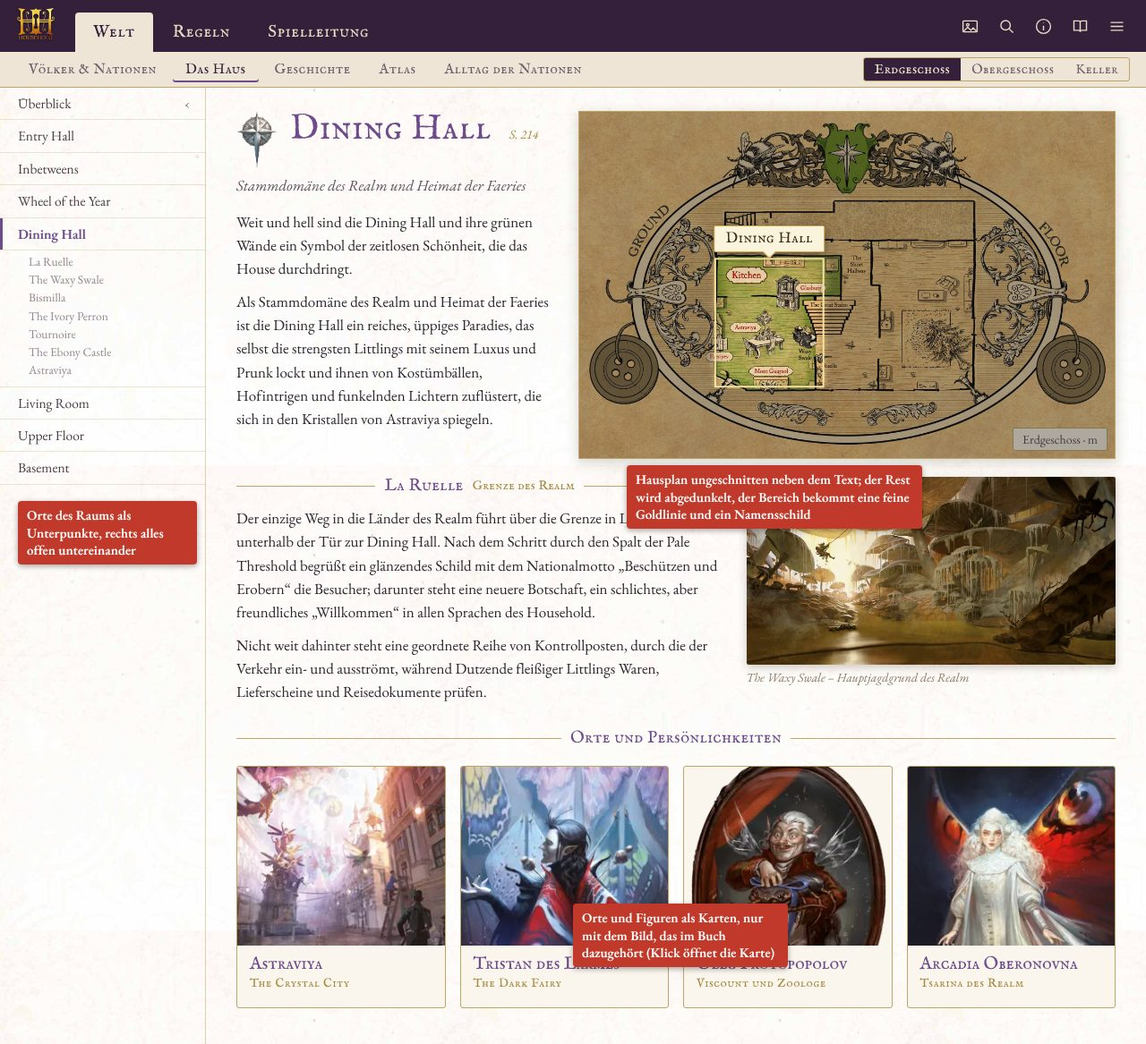
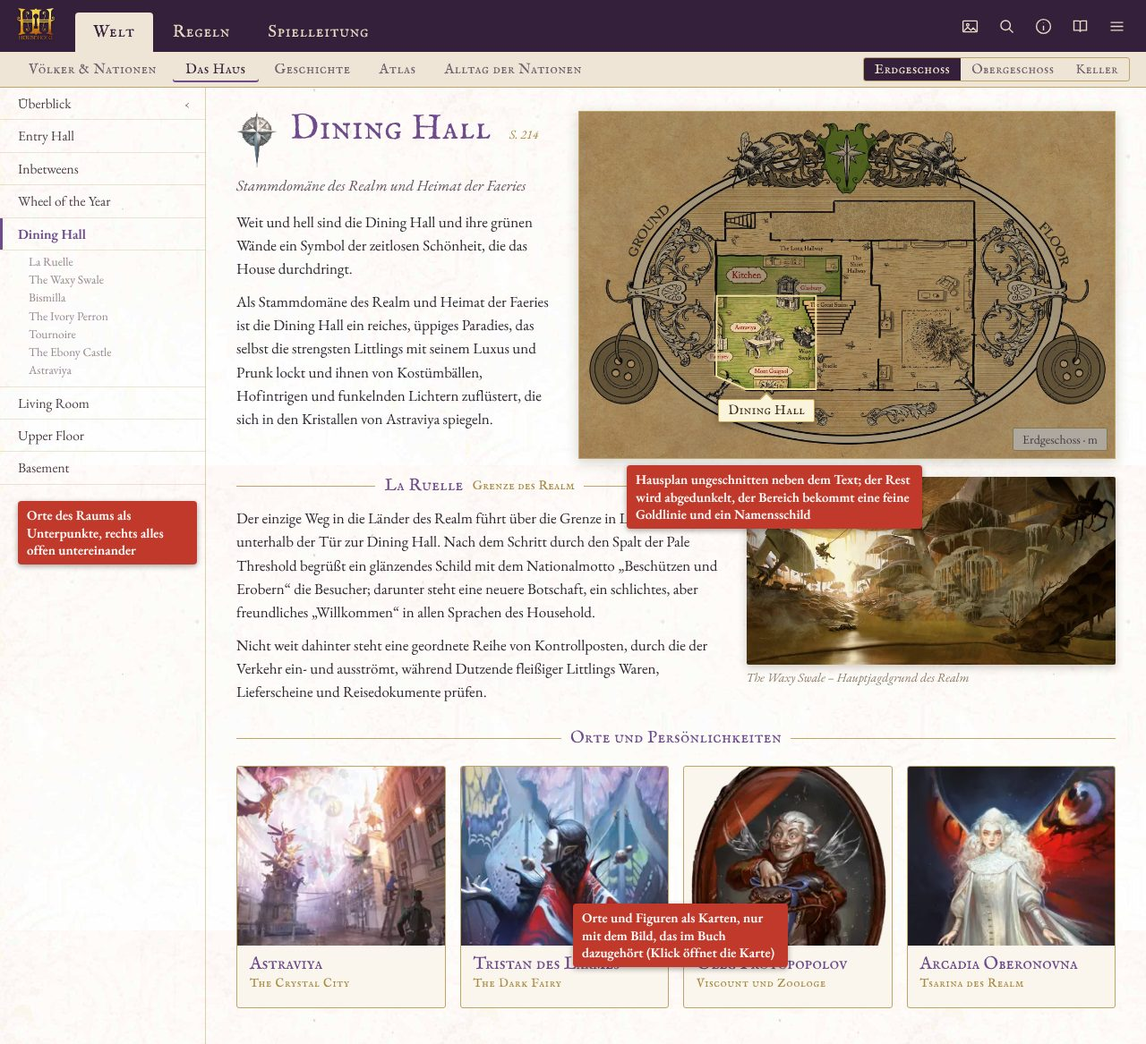
Household: Saga-Startseiten (Fragile Peace, Long Winter), Dining-Hall-Markierung ohne Kitchen

Changed region(s): [[0.625, 0.2159, 0.7188, 0.4319]]

diff --git a/plan/household/mockups/src/sagadaten.js b/plan/household/mockups/src/sagadaten.js
@@ -1,0 +1,3 @@
+var FPD=[["Kapitel I", "Sept. – Dez. VI H.C.", [["Argos Tagebuch", ["fp-s024-figur-gwen-summers", "fp-s030-figur-humphrey-lockwood", "fp-s046-figur-earnest-gilmore", "fp-s044-figur-sienna-blackwell-b"], "hearth"], ["Die Epidemie", ["fp-s026-figur-malaika-kumari", "fp-s060-figur-zehra-oren", "fp-s036-figur-qamar-halabi-b", "fp-s048-figur-santiago-vilar"], "horde"], ["Der Fall der vermissten Hummel", ["fp-s052-figur-yuliya-dragomirov", "fp-s014-015-figur-dimitri-sokov-ganz", "fp-s056-figur-hannah-blaum", "fp-s040-figur-jocelyne-bonheur"], "realm"], ["Die gestohlene Lieferung", ["fp-s022-figur-aidan-mackenna", "fp-s050-figur-siobhan-adhair-b", "fp-s016-figur-ira-poole", "fp-s042-figur-micah-doyle-c"], "dominions"], ["Die Wachsfalle", ["fp-s028-figur-pierre-delacroyance", "fp-s038-figur-gunther-lichtmann", "fp-s058-figur-priscilla-urbina", "fp-s032-figur-icarus-koenig"], "realm"], ["Die Blaue Ratte", ["fp-s018-figur-jemma-reed-b", "fp-s054-figur-floyd-hansen", "fp-s034-figur-litha-flammel", "fp-s020-figur-tubo-b"], "hearth"]]], ["Kapitel II · Paragraph I", "Jan. – März VII H.C.", [["Tragödie am Treppengeländer", ["fp-s022-figur-aidan-mackenna", "fp-s014-015-figur-dimitri-sokov-ganz", "fp-s016-figur-ira-poole", "fp-s050-figur-siobhan-adhair-b"], "common"], ["Auf Argos Spur", ["fp-s024-figur-gwen-summers", "fp-s030-figur-humphrey-lockwood", "fp-s058-figur-priscilla-urbina", "fp-s048-figur-santiago-vilar"], "hearth"], ["Auf frischer Tat", ["fp-s032-figur-icarus-koenig", "fp-s044-figur-sienna-blackwell-b", "fp-s042-figur-micah-doyle-c", "fp-s054-figur-floyd-hansen"], "hearth"], ["Der große Aufstieg", ["fp-s038-figur-gunther-lichtmann", "fp-s034-figur-litha-flammel", "fp-s028-figur-pierre-delacroyance", "fp-s020-figur-tubo-b"], "common"], ["Die Umbral-Grenze", ["fp-s018-figur-jemma-reed-b", "fp-s026-figur-malaika-kumari", "fp-s036-figur-qamar-halabi-b", "fp-s060-figur-zehra-oren"], "horde"], ["Unterwegs mit Protopopolov I", ["fp-s046-figur-earnest-gilmore", "fp-s056-figur-hannah-blaum", "fp-s040-figur-jocelyne-bonheur", "fp-s052-figur-yuliya-dragomirov"], "realm"]]], ["Kapitel II · Paragraph II", "Apr. VII – März VIII H.C.", [["The Long Hallway", ["fp-s032-figur-icarus-koenig", "fp-s018-figur-jemma-reed-b", "fp-s026-figur-malaika-kumari", "fp-s060-figur-zehra-oren"], "common"], ["Unterwegs mit Protopopolov II", ["fp-s052-figur-yuliya-dragomirov", "fp-s056-figur-hannah-blaum", "fp-s034-figur-litha-flammel", "fp-s020-figur-tubo-b"], "common"], ["Argos Grab", ["fp-s024-figur-gwen-summers", "fp-s030-figur-humphrey-lockwood", "fp-s058-figur-priscilla-urbina", "fp-s048-figur-santiago-vilar"], "hearth"], ["Eine bittere Pille", ["fp-s022-figur-aidan-mackenna", "fp-s014-015-figur-dimitri-sokov-ganz", "fp-s040-figur-jocelyne-bonheur", "fp-s050-figur-siobhan-adhair-b"], "realm"], ["Die Königin und der Boggart", ["fp-s028-figur-pierre-delacroyance", "fp-s038-figur-gunther-lichtmann", "fp-s016-figur-ira-poole", "fp-s054-figur-floyd-hansen"], "dominions"], ["Qamars Rache I", ["fp-s036-figur-qamar-halabi-b", "fp-s046-figur-earnest-gilmore", "fp-s044-figur-sienna-blackwell-b", "fp-s042-figur-micah-doyle-c"], "hearth"]]], ["Kapitel III · Paragraph I", "Apr. – Juli VIII H.C.", [["Ausbruch aus Deepdown", ["fp-s052-figur-yuliya-dragomirov", "fp-s018-figur-jemma-reed-b", "fp-s020-figur-tubo-b", "fp-s032-figur-icarus-koenig"], "horde"], ["Bei Kerzenlicht", ["fp-s024-figur-gwen-summers", "fp-s026-figur-malaika-kumari", "fp-s016-figur-ira-poole", "fp-s058-figur-priscilla-urbina"], "dominions"], ["Unterwegs mit Protopopolov III", ["fp-s028-figur-pierre-delacroyance", "fp-s038-figur-gunther-lichtmann", "fp-s056-figur-hannah-blaum", "fp-s034-figur-litha-flammel"], "horde"], ["Mord in Bookshire", ["fp-s022-figur-aidan-mackenna", "fp-s050-figur-siobhan-adhair-b", "fp-s042-figur-micah-doyle-c", "fp-s044-figur-sienna-blackwell-b"], "hearth"], ["Der Zoologische Garten", ["fp-s014-015-figur-dimitri-sokov-ganz", "fp-s046-figur-earnest-gilmore", "fp-s040-figur-jocelyne-bonheur", "fp-s060-figur-zehra-oren"], "realm"], ["Jagd im Greenwood", ["fp-s054-figur-floyd-hansen", "fp-s030-figur-humphrey-lockwood", "fp-s036-figur-qamar-halabi-b", "fp-s048-figur-santiago-vilar"], "hearth"]]], ["Kapitel III · Paragraph II", "Aug. VIII – Jan. IX H.C.", [["Duncan Rox’ Bande", ["fp-s054-figur-floyd-hansen", "fp-s030-figur-humphrey-lockwood", "fp-s048-figur-santiago-vilar", "fp-s044-figur-sienna-blackwell-b"], "hearth"], ["Argos Code", ["fp-s022-figur-aidan-mackenna", "fp-s024-figur-gwen-summers", "fp-s052-figur-yuliya-dragomirov", "fp-s050-figur-siobhan-adhair-b"], "dominions"], ["Gesucht!", ["fp-s060-figur-zehra-oren", "fp-s018-figur-jemma-reed-b", "fp-s034-figur-litha-flammel", "fp-s020-figur-tubo-b"], "horde"], ["Unterwegs mit Protopopolov: Epilog", ["fp-s038-figur-gunther-lichtmann", "fp-s028-figur-pierre-delacroyance", "fp-s046-figur-earnest-gilmore", "fp-s056-figur-hannah-blaum"], "horde"], ["Ira Poole muss sterben", ["fp-s016-figur-ira-poole", "fp-s042-figur-micah-doyle-c", "fp-s026-figur-malaika-kumari", "fp-s058-figur-priscilla-urbina"], "dominions"], ["Qamars Rache II", ["fp-s036-figur-qamar-halabi-b", "fp-s014-015-figur-dimitri-sokov-ganz", "fp-s032-figur-icarus-koenig", "fp-s040-figur-jocelyne-bonheur"], "realm"]]], ["Kapitel IIII · Paragraph I", "Feb. – Juni IX H.C.", [["Die Hundertjahrfeier", ["fp-s054-figur-floyd-hansen", "fp-s030-figur-humphrey-lockwood", "fp-s034-figur-litha-flammel", "fp-s046-figur-earnest-gilmore"], "hearth"], ["Santiago Vilars letztes Duell", ["fp-s038-figur-gunther-lichtmann", "fp-s056-figur-hannah-blaum", "fp-s058-figur-priscilla-urbina", "fp-s048-figur-santiago-vilar"], "horde"], ["Diplomatischer Zwischenfall", ["fp-s026-figur-malaika-kumari", "fp-s040-figur-jocelyne-bonheur", "fp-s032-figur-icarus-koenig", "fp-s016-figur-ira-poole"], "dominions"], ["Jemmas Urteil", ["fp-s052-figur-yuliya-dragomirov", "fp-s018-figur-jemma-reed-b", "fp-s014-015-figur-dimitri-sokov-ganz", "fp-s036-figur-qamar-halabi-b"], "realm"], ["Der Spinnenkult I", ["fp-s022-figur-aidan-mackenna", "fp-s028-figur-pierre-delacroyance", "fp-s020-figur-tubo-b", "fp-s060-figur-zehra-oren"], "horde"], ["Der Coup des Jahrhunderts I", ["fp-s024-figur-gwen-summers", "fp-s042-figur-micah-doyle-c", "fp-s044-figur-sienna-blackwell-b", "fp-s050-figur-siobhan-adhair-b"], "dominions"]]], ["Kapitel IIII · Paragraph II", "Juli – Sept. IX H.C.", [["Der Spinnenkult II", ["fp-s052-figur-yuliya-dragomirov", "fp-s014-015-figur-dimitri-sokov-ganz", "fp-s060-figur-zehra-oren", "fp-s020-figur-tubo-b"], "horde"], ["Kleine Protopopolovs", ["fp-s028-figur-pierre-delacroyance", "fp-s038-figur-gunther-lichtmann", "fp-s040-figur-jocelyne-bonheur", "fp-s056-figur-hannah-blaum"], "realm"], ["Der Coup des Jahrhunderts II", ["fp-s044-figur-sienna-blackwell-b", "fp-s042-figur-micah-doyle-c", "fp-s046-figur-earnest-gilmore", "fp-s058-figur-priscilla-urbina"], "dominions"], ["Der Weg des Rosts", ["fp-s024-figur-gwen-summers", "fp-s032-figur-icarus-koenig", "fp-s018-figur-jemma-reed-b", "fp-s034-figur-litha-flammel"], "horde"], ["Der Medjay-Orden", ["fp-s054-figur-floyd-hansen", "fp-s030-figur-humphrey-lockwood", "fp-s036-figur-qamar-halabi-b", "fp-s048-figur-santiago-vilar"], "horde"], ["Das Monster von Tuberdam I", ["fp-s022-figur-aidan-mackenna", "fp-s050-figur-siobhan-adhair-b", "fp-s026-figur-malaika-kumari", "fp-s016-figur-ira-poole"], "dominions"]]], ["Kapitel IIII · Paragraph III", "Okt. – Nov. IX H.C.", [["Der Sonnenuntergangsteufel", ["fp-s030-figur-humphrey-lockwood", "fp-s024-figur-gwen-summers", "fp-s054-figur-floyd-hansen", "fp-s048-figur-santiago-vilar"], "horde"], ["Das Monster von Tuberdam II", ["fp-s022-figur-aidan-mackenna", "fp-s050-figur-siobhan-adhair-b", "fp-s026-figur-malaika-kumari", "fp-s016-figur-ira-poole"], "dominions"], ["Das Grab der Schlange", ["fp-s036-figur-qamar-halabi-b", "fp-s052-figur-yuliya-dragomirov", "fp-s032-figur-icarus-koenig", "fp-s034-figur-litha-flammel"], "horde"], ["Ganz unten", ["fp-s028-figur-pierre-delacroyance", "fp-s040-figur-jocelyne-bonheur", "fp-s056-figur-hannah-blaum", "fp-s058-figur-priscilla-urbina"], "realm"], ["Das Richtige tun", ["fp-s046-figur-earnest-gilmore", "fp-s044-figur-sienna-blackwell-b", "fp-s018-figur-jemma-reed-b", "fp-s042-figur-micah-doyle-c"], "hearth"], ["Die Schuhe des Kalifen", ["fp-s060-figur-zehra-oren", "fp-s020-figur-tubo-b", "fp-s038-figur-gunther-lichtmann", "fp-s014-015-figur-dimitri-sokov-ganz"], "horde"]]], ["Kapitel V · Paragraph I", "Dez. IX – Feb. X H.C.", [["Der große Yule-Ball", ["fp-s048-figur-santiago-vilar", "fp-s038-figur-gunther-lichtmann", "fp-s028-figur-pierre-delacroyance", "fp-s026-figur-malaika-kumari"], "realm"], ["Jagd auf die Tristarred", ["fp-s046-figur-earnest-gilmore", "fp-s032-figur-icarus-koenig", "fp-s056-figur-hannah-blaum", "fp-s052-figur-yuliya-dragomirov"], "realm"], ["Das Hundertjahr-Rodeo", ["fp-s054-figur-floyd-hansen", "fp-s018-figur-jemma-reed-b", "fp-s034-figur-litha-flammel", "fp-s044-figur-sienna-blackwell-b"], "hearth"], ["Die gestohlenen Seiten", ["fp-s024-figur-gwen-summers", "fp-s022-figur-aidan-mackenna", "fp-s030-figur-humphrey-lockwood", "fp-s050-figur-siobhan-adhair-b"], "hearth"], ["Zehras Hochzeit", ["fp-s060-figur-zehra-oren", "fp-s020-figur-tubo-b", "fp-s036-figur-qamar-halabi-b", "fp-s042-figur-micah-doyle-c"], "horde"], ["Verdeckt", ["fp-s014-015-figur-dimitri-sokov-ganz", "fp-s016-figur-ira-poole", "fp-s040-figur-jocelyne-bonheur", "fp-s058-figur-priscilla-urbina"], "realm"]]], ["Kapitel V · Paragraph II", "März – Sept. X H.C.", [["Beschützen und Erobern", ["fp-s052-figur-yuliya-dragomirov", "fp-s014-015-figur-dimitri-sokov-ganz", "fp-s048-figur-santiago-vilar", "fp-s032-figur-icarus-koenig"], "realm"], ["Das Turnier von Viletia", ["fp-s050-figur-siobhan-adhair-b", "fp-s022-figur-aidan-mackenna", "fp-s042-figur-micah-doyle-c", "fp-s036-figur-qamar-halabi-b"], "horde"], ["Der Aufstand von Tournoire", ["fp-s016-figur-ira-poole", "fp-s026-figur-malaika-kumari", "fp-s060-figur-zehra-oren", "fp-s020-figur-tubo-b"], "realm"], ["Mausefalle", ["fp-s054-figur-floyd-hansen", "fp-s046-figur-earnest-gilmore", "fp-s056-figur-hannah-blaum", "fp-s044-figur-sienna-blackwell-b"], "hearth"], ["Das harte Leben eines Kriminellen", ["fp-s038-figur-gunther-lichtmann", "fp-s058-figur-priscilla-urbina", "fp-s028-figur-pierre-delacroyance", "fp-s040-figur-jocelyne-bonheur"], "realm"], ["Die verfluchten Inbetweens", ["fp-s024-figur-gwen-summers", "fp-s030-figur-humphrey-lockwood", "fp-s018-figur-jemma-reed-b", "fp-s034-figur-litha-flammel"], "common"]]], ["Kapitel V · Paragraph III", "Okt. X H.C.", [["Wer nichts wagt …", ["fp-s038-figur-gunther-lichtmann", "fp-s040-figur-jocelyne-bonheur", "fp-s028-figur-pierre-delacroyance", "fp-s058-figur-priscilla-urbina"], "realm"], ["Steinflügel", ["fp-s056-figur-hannah-blaum", "fp-s026-figur-malaika-kumari", "fp-s016-figur-ira-poole", "fp-s032-figur-icarus-koenig"], "realm"], ["Zeit zu sterben", ["fp-s022-figur-aidan-mackenna", "fp-s050-figur-siobhan-adhair-b", "fp-s042-figur-micah-doyle-c", "fp-s036-figur-qamar-halabi-b"], "horde"], ["Asche zu Asche", ["fp-s054-figur-floyd-hansen", "fp-s046-figur-earnest-gilmore", "fp-s044-figur-sienna-blackwell-b", "fp-s048-figur-santiago-vilar"], "hearth"], ["Der Domain Contract", ["fp-s024-figur-gwen-summers", "fp-s030-figur-humphrey-lockwood", "fp-s018-figur-jemma-reed-b", "fp-s034-figur-litha-flammel"], "common"], ["Angriff auf den Table", ["fp-s052-figur-yuliya-dragomirov", "fp-s014-015-figur-dimitri-sokov-ganz", "fp-s020-figur-tubo-b", "fp-s060-figur-zehra-oren"], "realm"]]], ["Epilog", "21. Okt. X H.C.", [["Der Fall von Faeriyev", [], "realm"], ["Der Fall von Faeriyev", [], "realm"]]]];
+var LWD=[["Kapitel VI · Winter", "Dez. XII – Feb. XIII H.C.", [["Schreckliche, schreckliche Dinge", ["lw-s038-figur-gunther-lichtmann", "lw-s022-023-figur-gwen-summers-ganz", "lw-s050-figur-shiro-c", "lw-s018-figur-soya"], ""], ["Die Yule-Geschenke", ["lw-s032-figur-icarus-koenig", "lw-s026-figur-pierre-delacroyance", "lw-s060-figur-ronja-rami-b", "lw-s044-figur-sienna-blackwell-b"], ""], ["Verloren im Schnee", ["lw-s054-figur-ajax", "lw-s062-figur-cora-idalia", "lw-s014-figur-kaelan-oakstone", "lw-s036-figur-koko-sandoval"], ""], ["Die Rückkehr des Ninja", ["lw-s040-figur-jiroku-sensei", "lw-s068-figur-kurai", "lw-s024-figur-sasaki-naoko", "lw-s046-figur-rubio-adhair"], ""], ["Angriff auf die Karawane", ["lw-s012-figur-jemma-reed", "lw-s034-figur-john-sawyer", "lw-s016-figur-nadja-vokos", "lw-s048-figur-santiago-vilar"], ""], ["Schmutziger Krieg", ["lw-s020-figur-chaska-agatanai", "lw-s030-figur-humphrey-lockwood", "lw-s070-figur-sakari-redland", "lw-s052-figur-yuliya-dragomirov"], ""]]], ["Kapitel VI · Frühling", "", [["Von Stein zu Stein", ["lw-s020-figur-chaska-agatanai", "lw-s014-figur-kaelan-oakstone", "lw-s036-figur-koko-sandoval", "lw-s054-figur-ajax"], ""], ["Gesucht: tot", ["lw-s034-figur-john-sawyer", "lw-s060-figur-ronja-rami-b", "lw-s046-figur-rubio-adhair", "lw-s048-figur-santiago-vilar"], ""], ["Lady Origami", ["lw-s040-figur-jiroku-sensei", "lw-s068-figur-kurai", "lw-s024-figur-sasaki-naoko", "lw-s044-figur-sienna-blackwell-b"], ""], ["Der gebrochene Ast", ["lw-s062-figur-cora-idalia", "lw-s012-figur-jemma-reed", "lw-s016-figur-nadja-vokos", "lw-s026-figur-pierre-delacroyance"], ""], ["Funke des Krieges", ["lw-s030-figur-humphrey-lockwood", "lw-s032-figur-icarus-koenig", "lw-s070-figur-sakari-redland", "lw-s052-figur-yuliya-dragomirov"], ""], ["33 Ronin", ["lw-s038-figur-gunther-lichtmann", "lw-s022-023-figur-gwen-summers-ganz", "lw-s050-figur-shiro-c", "lw-s018-figur-soya"], ""]]], ["Kapitel VI · Sommer", "", [["Der Feind meines Feindes", ["lw-s030-figur-humphrey-lockwood", "lw-s012-figur-jemma-reed", "lw-s016-figur-nadja-vokos", "lw-s052-figur-yuliya-dragomirov"], ""], ["Fest in Twigbridge", ["lw-s054-figur-ajax", "lw-s020-figur-chaska-agatanai", "lw-s036-figur-koko-sandoval", "lw-s046-figur-rubio-adhair"], ""], ["Arcadia, der Schmetterling", ["lw-s062-figur-cora-idalia", "lw-s032-figur-icarus-koenig", "lw-s026-figur-pierre-delacroyance", "lw-s070-figur-sakari-redland"], ""], ["Die Rose und der Dorn", ["lw-s034-figur-john-sawyer", "lw-s014-figur-kaelan-oakstone", "lw-s060-figur-ronja-rami-b", "lw-s048-figur-santiago-vilar"], ""], ["Alter Freund", ["lw-s022-023-figur-gwen-summers-ganz", "lw-s068-figur-kurai", "lw-s050-figur-shiro-c", "lw-s044-figur-sienna-blackwell-b"], ""], ["Die Teezeremonie", ["lw-s038-figur-gunther-lichtmann", "lw-s040-figur-jiroku-sensei", "lw-s024-figur-sasaki-naoko", "lw-s018-figur-soya"], ""]]], ["Kapitel VI · Herbst", "bis Nov. XIII H.C.", [["Die rächende Furie", ["lw-s062-figur-cora-idalia", "lw-s012-figur-jemma-reed", "lw-s016-figur-nadja-vokos", "lw-s052-figur-yuliya-dragomirov"], ""], ["Voller Hass", ["lw-s030-figur-humphrey-lockwood", "lw-s034-figur-john-sawyer", "lw-s026-figur-pierre-delacroyance", "lw-s048-figur-santiago-vilar"], ""], ["Der Schrein der Bleichen Windungen", ["lw-s038-figur-gunther-lichtmann", "lw-s022-023-figur-gwen-summers-ganz", "lw-s068-figur-kurai", "lw-s024-figur-sasaki-naoko"], ""], ["Tag der Abrechnung", ["lw-s040-figur-jiroku-sensei", "lw-s050-figur-shiro-c", "lw-s044-figur-sienna-blackwell-b", "lw-s018-figur-soya"], ""], ["Linse um Linse", ["lw-s032-figur-icarus-koenig", "lw-s060-figur-ronja-rami-b", "lw-s046-figur-rubio-adhair", "lw-s070-figur-sakari-redland"], ""], ["Der maskierte Dieb", ["lw-s054-figur-ajax", "lw-s020-figur-chaska-agatanai", "lw-s014-figur-kaelan-oakstone", "lw-s036-figur-koko-sandoval"], ""]]], ["Kapitel VII · Winter", "Dez. XIII H.C.", [["Whiteout", ["lw-s032-figur-icarus-koenig", "lw-s014-figur-kaelan-oakstone", "lw-s016-figur-nadja-vokos", "lw-s070-figur-sakari-redland"], ""], ["Die letzte Eule", ["lw-s054-figur-ajax", "lw-s062-figur-cora-idalia", "lw-s036-figur-koko-sandoval", "lw-s048-figur-santiago-vilar"], ""], ["Das ehrenwerte Abendessen", ["lw-s040-figur-jiroku-sensei", "lw-s026-figur-pierre-delacroyance", "lw-s050-figur-shiro-c", "lw-s018-figur-soya"], ""], ["Die Mondtür", ["lw-s038-figur-gunther-lichtmann", "lw-s022-023-figur-gwen-summers-ganz", "lw-s068-figur-kurai", "lw-s024-figur-sasaki-naoko"], ""], ["Bist du es, Duncan Rox?", ["lw-s030-figur-humphrey-lockwood", "lw-s012-figur-jemma-reed", "lw-s034-figur-john-sawyer", "lw-s020-figur-chaska-agatanai"], ""], ["Der Viscount und der Frosch", ["lw-s060-figur-ronja-rami-b", "lw-s046-figur-rubio-adhair", "lw-s044-figur-sienna-blackwell-b", "lw-s052-figur-yuliya-dragomirov"], ""]]], ["Kapitel VII · Frühling", "", [["Aus der Ferne", ["lw-s032-figur-icarus-koenig", "lw-s014-figur-kaelan-oakstone", "lw-s016-figur-nadja-vokos", "lw-s060-figur-ronja-rami-b"], ""], ["Flossen", ["lw-s034-figur-john-sawyer", "lw-s046-figur-rubio-adhair", "lw-s070-figur-sakari-redland", "lw-s044-figur-sienna-blackwell-b"], ""], ["Das Mondturnier", ["lw-s038-figur-gunther-lichtmann", "lw-s026-figur-pierre-delacroyance", "lw-s018-figur-soya", "lw-s052-figur-yuliya-dragomirov"], ""], ["Yojimbos Prüfungen", ["lw-s012-figur-jemma-reed", "lw-s040-figur-jiroku-sensei", "lw-s068-figur-kurai", "lw-s050-figur-shiro-c"], ""], ["Was du brauchst", ["lw-s020-figur-chaska-agatanai", "lw-s022-023-figur-gwen-summers-ganz", "lw-s030-figur-humphrey-lockwood", "lw-s024-figur-sasaki-naoko"], ""], ["Der blutige Contract", ["lw-s054-figur-ajax", "lw-s062-figur-cora-idalia", "lw-s036-figur-koko-sandoval", "lw-s048-figur-santiago-vilar"], ""]]], ["Kapitel VII · Sommer", "", [["Einmal ein Redcap …", ["lw-s020-figur-chaska-agatanai", "lw-s014-figur-kaelan-oakstone", "lw-s024-figur-sasaki-naoko", "lw-s070-figur-sakari-redland"], ""], ["Salz und Pfeffer", ["lw-s032-figur-icarus-koenig", "lw-s012-figur-jemma-reed", "lw-s034-figur-john-sawyer", "lw-s052-figur-yuliya-dragomirov"], ""], ["Evanders Vermächtnis", ["lw-s054-figur-ajax", "lw-s036-figur-koko-sandoval", "lw-s016-figur-nadja-vokos", "lw-s060-figur-ronja-rami-b"], ""], ["Das Grab von Barleduc", ["lw-s062-figur-cora-idalia", "lw-s022-023-figur-gwen-summers-ganz", "lw-s030-figur-humphrey-lockwood", "lw-s048-figur-santiago-vilar"], ""], ["Mount Karasu", ["lw-s040-figur-jiroku-sensei", "lw-s068-figur-kurai", "lw-s050-figur-shiro-c", "lw-s018-figur-soya"], ""], ["Über Bord", ["lw-s038-figur-gunther-lichtmann", "lw-s026-figur-pierre-delacroyance", "lw-s046-figur-rubio-adhair", "lw-s044-figur-sienna-blackwell-b"], ""]]], ["Kapitel VII · Herbst", "bis Nov. XIV H.C.", [["Das Feuer in den Brambles", ["lw-s012-figur-jemma-reed", "lw-s034-figur-john-sawyer", "lw-s070-figur-sakari-redland", "lw-s052-figur-yuliya-dragomirov"], ""], ["Rückkehr nach Faeriyev", ["lw-s032-figur-icarus-koenig", "lw-s014-figur-kaelan-oakstone", "lw-s016-figur-nadja-vokos", "lw-s060-figur-ronja-rami-b"], ""], ["Der Stab des Bundes", ["lw-s062-figur-cora-idalia", "lw-s022-023-figur-gwen-summers-ganz", "lw-s030-figur-humphrey-lockwood", "lw-s048-figur-santiago-vilar"], ""], ["Oberons Rache", ["lw-s038-figur-gunther-lichtmann", "lw-s026-figur-pierre-delacroyance", "lw-s046-figur-rubio-adhair", "lw-s044-figur-sienna-blackwell-b"], ""], ["Das Konzert", ["lw-s054-figur-ajax", "lw-s020-figur-chaska-agatanai", "lw-s036-figur-koko-sandoval", "lw-s024-figur-sasaki-naoko"], ""], ["Der Geist der Blühenden Wiese", ["lw-s040-figur-jiroku-sensei", "lw-s068-figur-kurai", "lw-s050-figur-shiro-c", "lw-s018-figur-soya"], ""]]], ["Epilog · Winter", "Dez. XIV – Feb. XV H.C.", [["Das letzte Schiff", [], ""], ["Das Duell der hundert Krähen", [], ""], ["Die gebrochene Spirale", [], ""], ["Die Schlacht von Frostwing", [], ""]]]];
+var FPP={"Dimitri": "fp-s014-015-figur-dimitri-sokov-ganz", "Ira": "fp-s016-figur-ira-poole", "Jemma": "fp-s018-figur-jemma-reed-b", "Tubo": "fp-s020-figur-tubo-b", "Aidan": "fp-s022-figur-aidan-mackenna", "Gwen": "fp-s024-figur-gwen-summers", "Malaika": "fp-s026-figur-malaika-kumari", "Pierre": "fp-s028-figur-pierre-delacroyance", "Humphrey": "fp-s030-figur-humphrey-lockwood", "Icarus": "fp-s032-figur-icarus-koenig", "Litha": "fp-s034-figur-litha-flammel", "Qamar": "fp-s036-figur-qamar-halabi-b", "Gunther": "fp-s038-figur-gunther-lichtmann", "Jocelyne": "fp-s040-figur-jocelyne-bonheur", "Micah": "fp-s042-figur-micah-doyle-c", "Sienna": "fp-s044-figur-sienna-blackwell-b", "Earnest": "fp-s046-figur-earnest-gilmore", "Santiago": "fp-s048-figur-santiago-vilar", "Siobhan": "fp-s050-figur-siobhan-adhair-b", "Yuliya": "fp-s052-figur-yuliya-dragomirov", "Floyd": "fp-s054-figur-floyd-hansen", "Hannah": "fp-s056-figur-hannah-blaum", "Pryscilla": "fp-s058-figur-priscilla-urbina", "Zehra": "fp-s060-figur-zehra-oren"};var LWP={"Jemma": "lw-s012-figur-jemma-reed", "Kaelan": "lw-s014-figur-kaelan-oakstone", "Nadja": "lw-s016-figur-nadja-vokos", "Soya": "lw-s018-figur-soya", "Chaska": "lw-s020-figur-chaska-agatanai", "Gwen": "lw-s022-023-figur-gwen-summers-ganz", "Naoko": "lw-s024-figur-sasaki-naoko", "Pierre": "lw-s026-figur-pierre-delacroyance", "Fandango": "lw-s028-figur-fandango", "Humphrey": "lw-s030-figur-humphrey-lockwood", "Icarus": "lw-s032-figur-icarus-koenig", "John": "lw-s034-figur-john-sawyer", "Koko": "lw-s036-figur-koko-sandoval", "Gunther": "lw-s038-figur-gunther-lichtmann", "Jiroku": "lw-s040-figur-jiroku-sensei", "Pascal": "lw-s042-figur-pascal", "Sienna": "lw-s044-figur-sienna-blackwell-b", "Rubio": "lw-s046-figur-rubio-adhair", "Santiago": "lw-s048-figur-santiago-vilar", "Shiro": "lw-s050-figur-shiro-c", "Yuliya": "lw-s052-figur-yuliya-dragomirov", "Ajax": "lw-s054-figur-ajax", "Lachlan": "lw-s056-figur-lachlan-v-galloway", "Monika": "lw-s058-figur-monika-zee", "Ronja": "lw-s060-figur-ronja-rami-b", "Cora": "lw-s062-figur-cora-idalia", "Elsie": "lw-s064-figur-elsie", "Fiona": "lw-s066-figur-fiona-mcinnis", "Kurai": "lw-s068-figur-kurai", "Sakari": "lw-s070-figur-sakari-redland"};

diff --git a/plan/household/mockups/src/m7-saga-start.html b/plan/household/mockups/src/m7-saga-start.html
@@ -1,0 +1,94 @@
+<!DOCTYPE html><html lang="de"><head><meta charset="utf-8"><link rel="stylesheet" href="hh.css"><script src="hh.js"></script><script src="sagadaten.js"></script>
+<style>
+.sl{position:sticky;top:var(--kopf);z-index:19;height:44px;display:flex;align-items:center;gap:4px;padding:0 18px;color:#e8eef2}
+.sl .nm{font:19px Fell,serif;letter-spacing:.03em;margin-right:16px;color:#f3e7c8}
+.sl a{font:16px Fell,serif;padding:6px 11px;color:#d3d0dc;border-radius:2px}
+.sl a.on{background:#f4eee2;color:var(--sc)}
+.hero{position:relative;height:300px;background:#222 center/cover}
+.hero:after{content:"";position:absolute;inset:0;background:linear-gradient(90deg,rgba(15,10,20,.82) 0,rgba(15,10,20,.45) 45%,rgba(15,10,20,0) 75%)}
+.hero .t{position:absolute;left:44px;bottom:36px;z-index:1;color:#f6ecd2;max-width:620px}
+.hero .t h1{color:#f6ecd2;font-size:46px;text-shadow:0 2px 10px rgba(0,0,0,.6)}
+.hero .t div{font:italic 18px Gar,serif;opacity:.9;margin-top:6px}
+.wrapS{padding:26px 40px 50px}
+.oben{display:grid;grid-template-columns:1fr 360px;gap:36px;align-items:start}
+.intro p{font-size:17.5px;margin-bottom:10px}
+.fakten{background:rgba(250,246,236,.95);border:1px solid var(--rule);border-radius:3px;padding:6px 18px}
+.fakten div{display:grid;grid-template-columns:118px 1fr;gap:10px;padding:7px 0;border-bottom:1px dotted #d6c79f;font-size:15.5px;line-height:1.35}
+.fakten div:last-child{border:0}
+.fakten b{font:400 14px Fell,serif;letter-spacing:.05em;color:var(--sc);padding-top:2px}
+h2.ab{font-size:28px;color:var(--sc);margin:30px 0 12px;display:flex;align-items:center;gap:14px}
+h2.ab:after{content:"";flex:1;height:1px;background:var(--rule)}
+.wege{display:grid;grid-template-columns:repeat(3,1fr);gap:14px}
+.weg{padding:14px 16px;border-top:3px solid var(--sc);background:rgba(250,246,236,.9);font-size:15.5px;line-height:1.45}
+.weg b{display:block;font:400 19px Fell,serif;color:var(--sc);margin-bottom:5px}
+.tipp{padding:14px 16px;background:#fbf7ee;border:1px solid #c9b27a;outline:3px double #d8c48e;outline-offset:-7px;font-size:15px;line-height:1.45}
+.tipp b{display:block;font:400 19px Fell,serif;color:var(--sc);margin-bottom:6px}
+.tipp .pp{display:flex;gap:6px;margin-top:10px}
+.tipp .pp span{text-align:center;font:13px Fell,serif;color:#6b5f6b}
+.tipp .pp img{display:block;width:54px;height:54px;object-fit:cover;object-position:center 12%;border-radius:50%;border:2px solid #d8c48e;background:#efe7d8;margin:0 auto 2px}
+.zus{display:grid;grid-template-columns:1fr 1fr;gap:22px;margin-top:18px;font-size:15.5px;line-height:1.5}.zus b{display:block;font:400 18px Fell,serif;color:var(--sc);margin-bottom:4px;border-bottom:1px solid var(--rule);padding-bottom:3px}.zus u{text-decoration:none;font-weight:600}
+.plan{border-top:1px solid var(--rule)}
+.par{display:grid;grid-template-columns:170px 1fr;border-bottom:1px solid rgba(191,164,104,.45)}
+.par .lb{padding:12px 12px 10px 0}
+.par .lb b{display:block;font:400 17px/1.15 Fell,serif;color:var(--sc)}
+.par .lb i{font-size:13.5px;color:#8f8496}
+.par .lb em{display:inline-block;margin-top:6px;font:12.5px Fell,serif;font-style:normal;letter-spacing:.06em;color:#7a5f16;background:#f3e5b8;padding:1px 7px;border-radius:2px}
+.reihe6{display:grid;grid-template-columns:repeat(6,minmax(0,1fr))}
+.abt{display:flex;gap:9px;align-items:center;padding:10px 10px 9px;border-left:1px solid rgba(191,164,104,.3);border-bottom:3px solid transparent}
+.abt:hover{background:rgba(255,255,255,.5)}
+.abt .q{flex:none;display:grid;grid-template-columns:28px 28px;gap:2px}
+.abt .q img{width:28px;height:28px;object-fit:cover;object-position:center 10%;background:#e9e0d0;border-radius:2px}
+.abt span{font-size:14.5px;line-height:1.2;hyphens:auto;overflow-wrap:anywhere;min-width:0}
+.leg{display:flex;gap:20px;justify-content:flex-end;margin:10px 0 0;font:14px Fell,serif;color:#6b5f6b}
+.leg i{display:inline-block;width:28px;height:3px;vertical-align:middle;margin-right:6px}
+</style></head><body>
+<script>
+var LW=location.hash=='#lw', SC=LW?'#2f4e74':'#5b3f78';
+document.documentElement.style.setProperty('--sc',SC);
+if(LW)document.body.style.backgroundImage='url(deko/papier-lw-kachel.jpg)';
+kopf({on:''});
+var tabs=LW?['Überblick','Figuren','Kapitel VI','Kapitel VII','Epilog','Zeitleiste']:['Überblick','Figuren','Kapitel I','Kapitel II','Kapitel III','Kapitel IIII','Kapitel V','Epilog','Zeitleiste'];
+document.write('<div class="sl" style="background:'+(LW?'#24364a':'#2c2038')+';border-bottom:2px solid #b9a36a"><span class="nm">'+(LW?'Saga vom Langen Winter':'Saga vom Brüchigen Frieden')+'</span>'+tabs.map(function(t,i){return '<a class="'+(i==0?'on':'')+'">'+t+'</a>'}).join('')+'</div>');
+</script>
+<div class="hero" id="he"><div class="t"><h1 id="ti"></h1><div id="ut"></div></div></div>
+<div class="wrapS">
+ <div class="oben"><div><div class="intro" id="in"></div><h2 class="ab" style="margin-top:18px">Wege in die Saga</h2><div class="wege" id="wg"></div><div class="zus" id="zs"></div></div><div><div class="fakten" id="fk"></div><div id="tp" style="margin-top:16px"></div></div></div>
+ <h2 class="ab">Saga-Plan</h2>
+ <div class="plan" id="pl"></div>
+ <div class="leg" id="lg"></div>
+</div>
+<script>
+var NC={common:'#7b4f9c',realm:'#3f7a3a',hearth:'#2b4f8e',dominions:'#b8262f',horde:'#a8601f'};
+var SZ={'Winter':'#6f93b5','Frühling':'#6f9a4a','Sommer':'#c9a13a','Herbst':'#a85a2a'};
+var S=LW?{
+ bild:img('lw-s112-113-vi-winter-ganz'),pos:'center 62%',ti:'Eine Saga vom Langen Winter',ut:'Kapitel VI und VII · Epilog',
+ intro:['Nach dem Brüchigen Frieden führt Herasmo J. Hemingway seine Forschung in den Garden: 30 Geschichten von Littlings, die den Langen Winter im Outhold erlebt haben – Gnome wie die Sammlerin Koko Sandoval, Fae wie der charmante Ajax Orus, und alte Bekannte aus dem Brüchigen Frieden wie Gwen Summers, Icarus König und Jemma Reed.','Wieder bittet er den Historians’ Club, die Ereignisse des Langen Winters zusammenzusetzen und diesen Littlings ihren Platz in der Geschichte zu geben.'],
+ fakten:[['Zeitraum','Dez. XII – Feb. XV H.C.'],['Schauplatz','The Garden (Outhold)'],['Figuren','30, davon 6 Wandering Characters'],['Ausgearbeitet','6 Einstiegsabenteuer (Kapitel VI, Winter)'],['Skizziert','42 Abenteuer, je eine Seite'],['Epilog','für jede Figur, u. a. die Schlacht von Frostwing'],['Gruppe','4 Spieler:innen + Spielleitung']],
+ wege:[['Alle Figuren','Jede:r spielt eine Figur vom Anfang bis zum Ende – viele Freunde und mindestens 50 Sitzungen.'],['Einer Figur folgen','Eine Figur von Kapitel VI bis zum Epilog; die übrigen wechseln je nach Abenteuer.'],['Als Inspiration','Eigene Saga vom Langen Winter, eigene Figuren, Noteworthy Characters als Nebenfiguren.']],
+ tipp:['Empfohlene Figuren','Für eine einzelne Figur oder eine kleine Gruppe eignen sich besonders:',['Gwen','Soya','Ajax','Koko']],
+ data:LWD,P:LWP,fertig:1
+}:{
+ bild:img('fp-s-01-umschlag-vorspann-b'),pos:'center 32%',ti:'Eine Saga vom Brüchigen Frieden',ut:'Kapitel I–V · Epilog: Der Fall von Faeriyev',
+ intro:['Alle Abenteuer dieses Buchs spielen während des Brüchigen Friedens, fast 100 Jahre nach dem Verschwinden des Masters. Im Mittelpunkt stehen 24 Noteworthy Characters aus verschiedenen Völkern und Nationen, jede:r mit eigenem Beruf und eigener Berufung.','Herasmo J. Hemingway gründet dafür den Historians’ Club: Die Spielrunde soll Stück für Stück rekonstruieren, was diese Littlings in den fünf Jahren des Brüchigen Friedens erlebt haben.'],
+ fakten:[['Zeitraum','Sept. VI – Okt. X H.C.'],['Schauplatz','Das House'],['Figuren','24 Noteworthy Characters'],['Ausgearbeitet','6 Einstiegsabenteuer (Kapitel I)'],['Skizziert','60 Abenteuer in Kapitel II–V, je eine Seite'],['Epilog','Der Fall von Faeriyev'],['Gruppe','4 Spieler:innen + Spielleitung']],
+ wege:[['Einer Figur folgen','Eine Figur durch mehrere Paragraphen und Kapitel begleiten und nach jedem Abenteuer die Figuren dazunehmen, die sie trifft.'],['Kapitel für Kapitel','Alle Abenteuer von Kapitel I spielen, dann Kapitel II und so weiter, bis die Saga ganz rekonstruiert ist.'],['Einen Raum wählen','Sich auf einen Raum des House konzentrieren oder einer Figur folgen und den Fokus wechseln, wenn es passt.']],
+ tipp:['Ein kleiner Schritt','Für einen leichteren Einstieg: dem Leben von Gwen Summers folgen, beginnend mit Kapitel I, „Argos Tagebuch“.',['Gwen']],
+ data:FPD,P:FPP,fertig:1
+};
+zs.innerHTML='<div><b>Wenige oder viele Spieler:innen</b>Jedes Abenteuer ist für 4 Spieler:innen und die Spielleitung gedacht. Ist die Gruppe größer, kommen Figuren aus „Weitere Figuren“ des Abenteuers dazu'+(LW?', Wandering Characters':'')+' oder eigene Figuren. Ist sie kleiner, spielt die Spielleitung ein oder zwei Noteworthy Characters als Nebenfiguren.</div>'+(LW?'<div><b>Merkmale der Figuren</b><u>Roots:</u> Lockins stammen aus dem House, Outsiders aus dem Garden.<br><u>Type:</u> Recurring Characters kennt man aus dem Brüchigen Frieden, New Characters sind neu, Wandering Characters gehören zu keinem Abenteuer.</div>':'<div><b>Epilog</b>Der Fall von Faeriyev ist in zwei parallele Abenteuer geteilt. Sie lassen sich gleichzeitig von zwei Gruppen oder nacheinander spielen.</div>');
+he.style.backgroundImage='url('+S.bild+')';he.style.backgroundPosition=S.pos;ti.textContent=S.ti;ut.textContent=S.ut;
+S.intro.forEach(function(p){inn=document.getElementById('in');inn.innerHTML+='<p>'+p+'</p>'});
+S.fakten.forEach(function(f){fk.innerHTML+='<div><b>'+f[0]+'</b><span>'+f[1]+'</span></div>'});
+S.wege.forEach(function(w){wg.innerHTML+='<div class="weg"><b>'+w[0]+'</b>'+w[1]+'</div>'});
+tp.innerHTML='<div class="tipp"><b>'+S.tipp[0]+'</b>'+S.tipp[1]+'<div class="pp">'+S.tipp[2].map(function(n){return '<span><img src="'+img(S.P[n],1)+'">'+n+'</span>'}).join('')+'</div></div>';
+S.data.forEach(function(p,pi){
+ var szn=Object.keys(SZ).filter(function(k){return p[0].indexOf(k)>=0})[0];
+ var h='<div class="par"><div class="lb" style="'+(szn?'box-shadow:inset 4px 0 0 '+SZ[szn]+';padding-left:12px':'')+'"><b>'+p[0].replace(' · ','<br>')+'</b><i>'+p[1]+'</i>'+(pi==0?'<br><em>ausgearbeitet</em>':'')+'</div><div class="reihe6">';
+ p[2].forEach(function(a){h+='<div class="abt" style="'+(a[2]?'border-bottom-color:'+NC[a[2]]:'')+'">'+(a[1].length?'<div class="q">'+a[1].map(function(f){return '<img src="'+img(f,1)+'">'}).join('')+'</div>':'')+'<span>'+a[0]+'</span></div>';});
+ pl.innerHTML+=h+'</div></div>';});
+lg.innerHTML=LW?Object.keys(SZ).map(function(k){return '<span><i style="background:'+SZ[k]+'"></i>'+k+'</span>'}).join(''):[['common','Common Lands'],['realm','Realm'],['hearth','Hearth'],['dominions','Free Dominions'],['horde','Horde']].map(function(k){return '<span><i style="background:'+NC[k[0]]+'"></i>'+k[1]+'</span>'}).join('');
+</script>
+<div class="note" style="left:760px;top:130px;max-width:330px">„Überblick“ als erster Reiter der Saga – die Seite, auf der man beim Klick auf die Saga landet</div>
+<div class="note" style="left:420px;top:560px;max-width:330px">Wege in die Saga und Empfehlung aus dem Buch, kurz zusammengefasst</div>
+<div class="note" style="left:860px;top:1040px;max-width:330px">Saga-Plan wie im Buch: jedes Abenteuer mit seinen vier Protagonisten und der Farbe seiner Nation bzw. Jahreszeit – Klick öffnet den Leitstand</div>
+</body></html>

diff --git a/plan/household/mockups/src/hh.js b/plan/household/mockups/src/hh.js
@@ -18,7 +18,7 @@ function kopf(o){
 if(location.search.indexOf('clean')>=0)document.documentElement.classList.add('clean');
 document.write('<style>.clean .note{display:none}</style>');
 
-function spot(el,pts,lab,lx,ly,eckig){
+function spot(el,pts,lab,lx,ly,eckig,unten){
  // weiche, runde Kontur: Catmull-Rom -> Bezier (geschlossen); eckig=1 laesst Ecken
  function pfad(P){ if(eckig) return 'M'+P.map(function(q){return q[0]+' '+q[1]}).join(' L')+'Z';
   var n=P.length,d='M'+P[0][0]+' '+P[0][1];
@@ -26,5 +26,5 @@ function spot(el,pts,lab,lx,ly,eckig){
    d+=' C'+(p1[0]+(p2[0]-p0[0])/6)+' '+(p1[1]+(p2[1]-p0[1])/6)+' '+(p2[0]-(p3[0]-p1[0])/6)+' '+(p2[1]-(p3[1]-p1[1])/6)+' '+p2[0]+' '+p2[1];}
   return d+'Z';}
  var k=pfad(pts);
- el.insertAdjacentHTML('beforeend','<svg class="spot" viewBox="0 0 100 100" preserveAspectRatio="none"><defs><filter id="wb" x="-5%" y="-5%" width="110%" height="110%"><feGaussianBlur stdDeviation="0.7"/></filter></defs><path class="dim" filter="url(#wb)" d="M-5 -5H105V105H-5Z '+k+'"/><path class="rand" d="'+k+'"/></svg><div class="spotlab" style="left:'+lx+'%;top:'+ly+'%">'+lab+'</div>');
+ el.insertAdjacentHTML('beforeend','<svg class="spot" viewBox="0 0 100 100" preserveAspectRatio="none"><defs><filter id="wb" x="-5%" y="-5%" width="110%" height="110%"><feGaussianBlur stdDeviation="0.7"/></filter></defs><path class="dim" filter="url(#wb)" d="M-5 -5H105V105H-5Z '+k+'"/><path class="rand" d="'+k+'"/></svg><div class="spotlab'+(unten?' unten':'')+'" style="left:'+lx+'%;top:'+ly+'%">'+lab+'</div>');
 }

diff --git a/plan/household/mockups/src/m3-welt-haus.html b/plan/household/mockups/src/m3-welt-haus.html
@@ -46,7 +46,7 @@
  </div>
 </div>
 <script>
-pli.src=img('guide-s012-013-hausplan-erdgeschoss');spot(pl,[[25.4,42.5],[45.6,42.5],[45.6,79.5],[25.4,79.5]],'Dining Hall',35.5,40.5,1);md.src=img('guide-s010-i-realm-einleitung',1);b1.src=img('grundbuch-s215-ix-dining-hall');
+pli.src=img('guide-s012-013-hausplan-erdgeschoss');spot(pl,[[25.7,53.2],[44.2,53.2],[44.2,80.2],[31.1,80.2],[25.6,76.4]],'Dining Hall',35,83,1,1);md.src=img('guide-s010-i-realm-einleitung',1);b1.src=img('grundbuch-s215-ix-dining-hall');
 var O=[['Astraviya','The Crystal City','grundbuch-s220-ix-dining-hall',0],['Tristan des Larmes','The Dark Fairy','grundbuch-s218-ix-dining-hall',1],['Oleg Protopopolov','Viscount und Zoologe','grundbuch-s222-ix-dining-hall',1],['Arcadia Oberonovna','Tsarina des Realm','grundbuch-s224-ix-dining-hall',1]];
 or.innerHTML='<h3 style="grid-column:1/-1;margin:6px 0 0">Orte und Persönlichkeiten</h3>';
 O.forEach(function(o,i){

diff --git a/plan/household/mockups/src/hh.css b/plan/household/mockups/src/hh.css
@@ -60,3 +60,4 @@ h3:before,h3:after{content:"";flex:1;height:1px;background:var(--rule)}
 .spot .rand{fill:none;stroke:#f6e3a1;stroke-width:2;stroke-linejoin:round;vector-effect:non-scaling-stroke;filter:drop-shadow(0 0 3px rgba(0,0,0,.6))}
 .spotlab{position:absolute;transform:translate(-50%,-100%);font:17px Fell,serif;letter-spacing:.03em;color:#3a2a1a;background:#fbf4dc;border:1px solid #c9a24a;padding:3px 12px 4px;border-radius:2px;box-shadow:0 2px 8px rgba(0,0,0,.35);white-space:nowrap}
 .spotlab:after{content:"";position:absolute;left:50%;bottom:-6px;width:9px;height:9px;background:#fbf4dc;border-right:1px solid #c9a24a;border-bottom:1px solid #c9a24a;transform:translateX(-50%) rotate(45deg)}
+.spotlab.unten{transform:translate(-50%,0);font-size:15px;padding:2px 10px 3px}.spotlab.unten:after{bottom:auto;top:-6px;transform:translateX(-50%) rotate(225deg)}

diff --git a/plan/HOUSEHOLD_PLAN.md b/plan/HOUSEHOLD_PLAN.md
@@ -133,6 +133,8 @@ Unter `plan/household/mockups/` (je mit `-erklaert`-Fassung), Quellen in `src/` 
 - **m5b-saga-figuren** – Saga-Figuren-Übersicht (Long Winter, 30 Figuren) frei in einem Raster, Beruf als feine Linie über der Gruppe, darunter Volk · Nation.
 - **m5-saga** – Saga-Leitstand mit Jahreszeiten-Umschalter.
 - **m6-garten** – Garten: Outhold-Karte ohne Rahmen, größer, gleiche Markierung wie beim Haus.
+- **m7-saga-start-fp / m8-saga-start-lw** – Saga-Startseite („Überblick“ als erster Reiter der Saga-Leiste, eine Vorlage `m7-saga-start.html#fp|#lw`): Hero, Einleitung aus dem Buch, Fakten (Zeitraum, Schauplatz, Figuren, ausgearbeitet/skizziert, Epilog, Gruppe), Wege in die Saga, Empfehlung mit Porträts, Gruppengröße bzw. Epilog/Figuren-Merkmale, Saga-Plan wie in der Buchübersicht (FP S.66/67, LW S.78): jede Zeile ein Paragraph bzw. eine Jahreszeit mit Zeitraum, jedes Abenteuer mit 2×2-Porträts der Protagonisten und Farblinie der Nation (FP, aus dem Buch ausgelesen) bzw. Jahreszeit (LW). Daten in `src/sagadaten.js` (Protagonisten aus dem Text; Buchfehler LW „Yojimbo’s Trials“: „Kurai Shiro“ = Kurai, Shiro).
+- Dining-Hall-Markierung: Nach dem Guide besteht das Realm aus Dining Hall **und** Kitchen; die grüne Fläche im Plan ist das ganze Realm. Die Kitchen ist der obere Raum (Herd, Spüle), Glasburg/Cupboard steht am Durchgang. Markiert wird nur der untere Raum.
 Schriften im Entwurf: IM Fell English SC (Überschriften) und EB Garamond (Text) als Ersatz für Sydonia/Minion; die Buchschriften sind nur als Teilsätze eingebettet und müssten wie bei Heart zusammengesetzt werden.
 Deko aus dem Grundbuch in `src/deko/`: Seitenpapier, Tapeten-Banner (grün Realm, blau Hearth, rot Free Dominions, gold Horde, lila Regeln), Fraktions-Medaillen mit Band.
 Aufräumen beim Bau: Tapetenstücke hinter den Saga-Figuren (z. B. fp-s018-…, lw-s024-…, lw-s050-shiro-b) und Banner (garten-s152, garten-s157, lw-s075) aus der Bildsammlung entfernen; Medaillen mit Band in die Sammlung aufnehmen.
